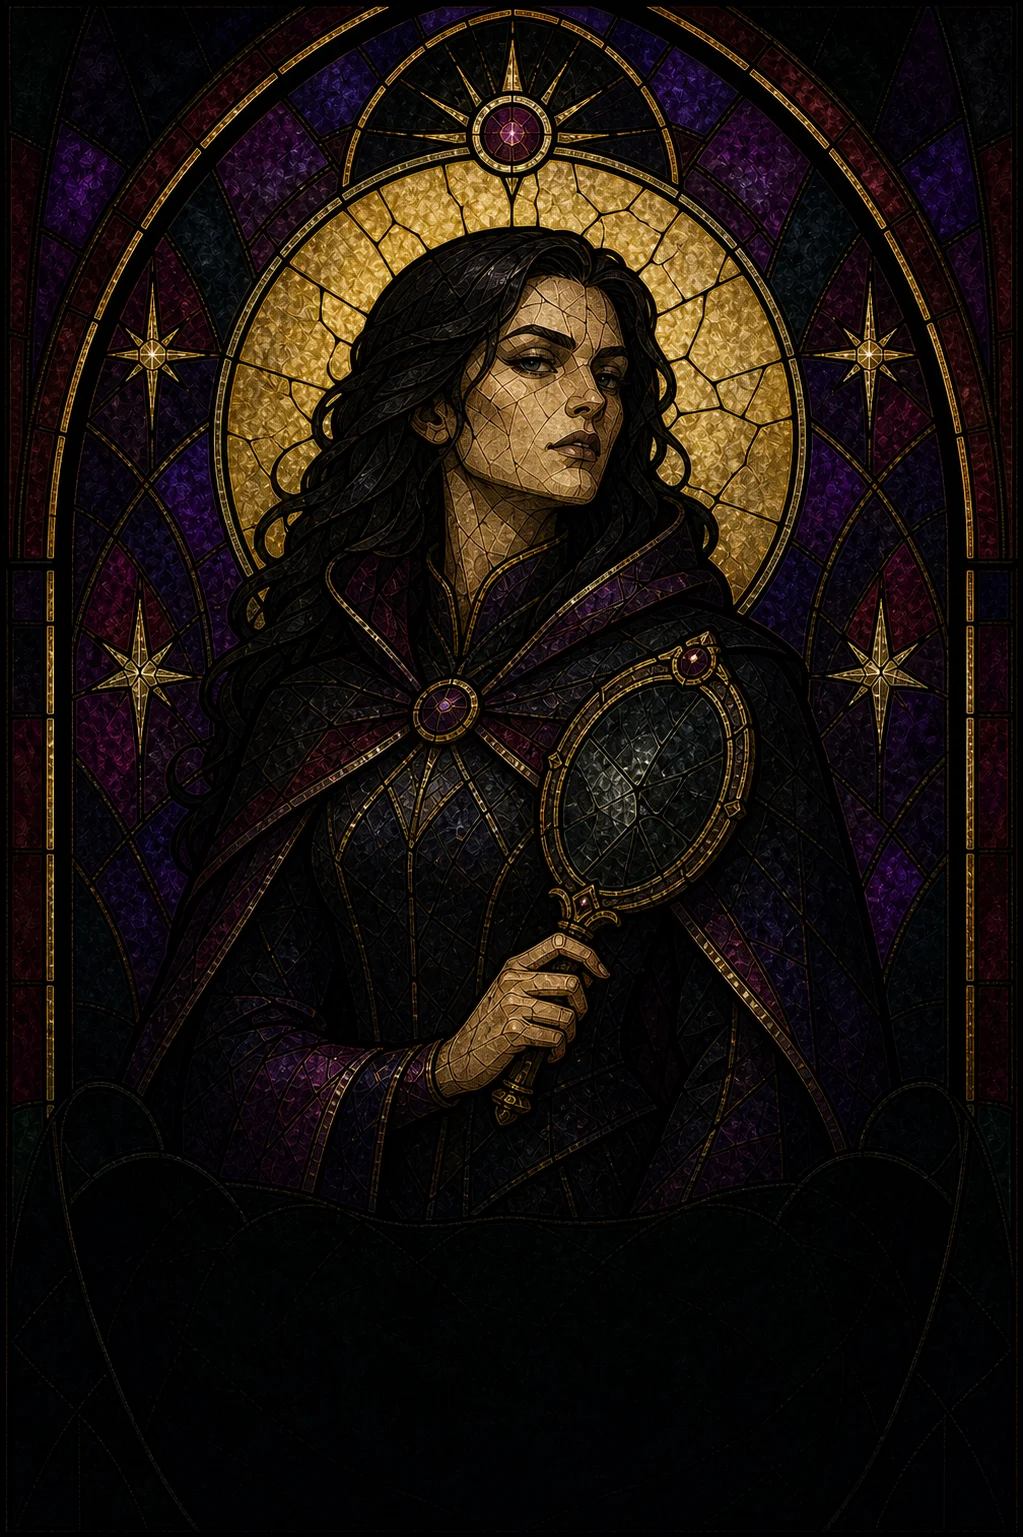
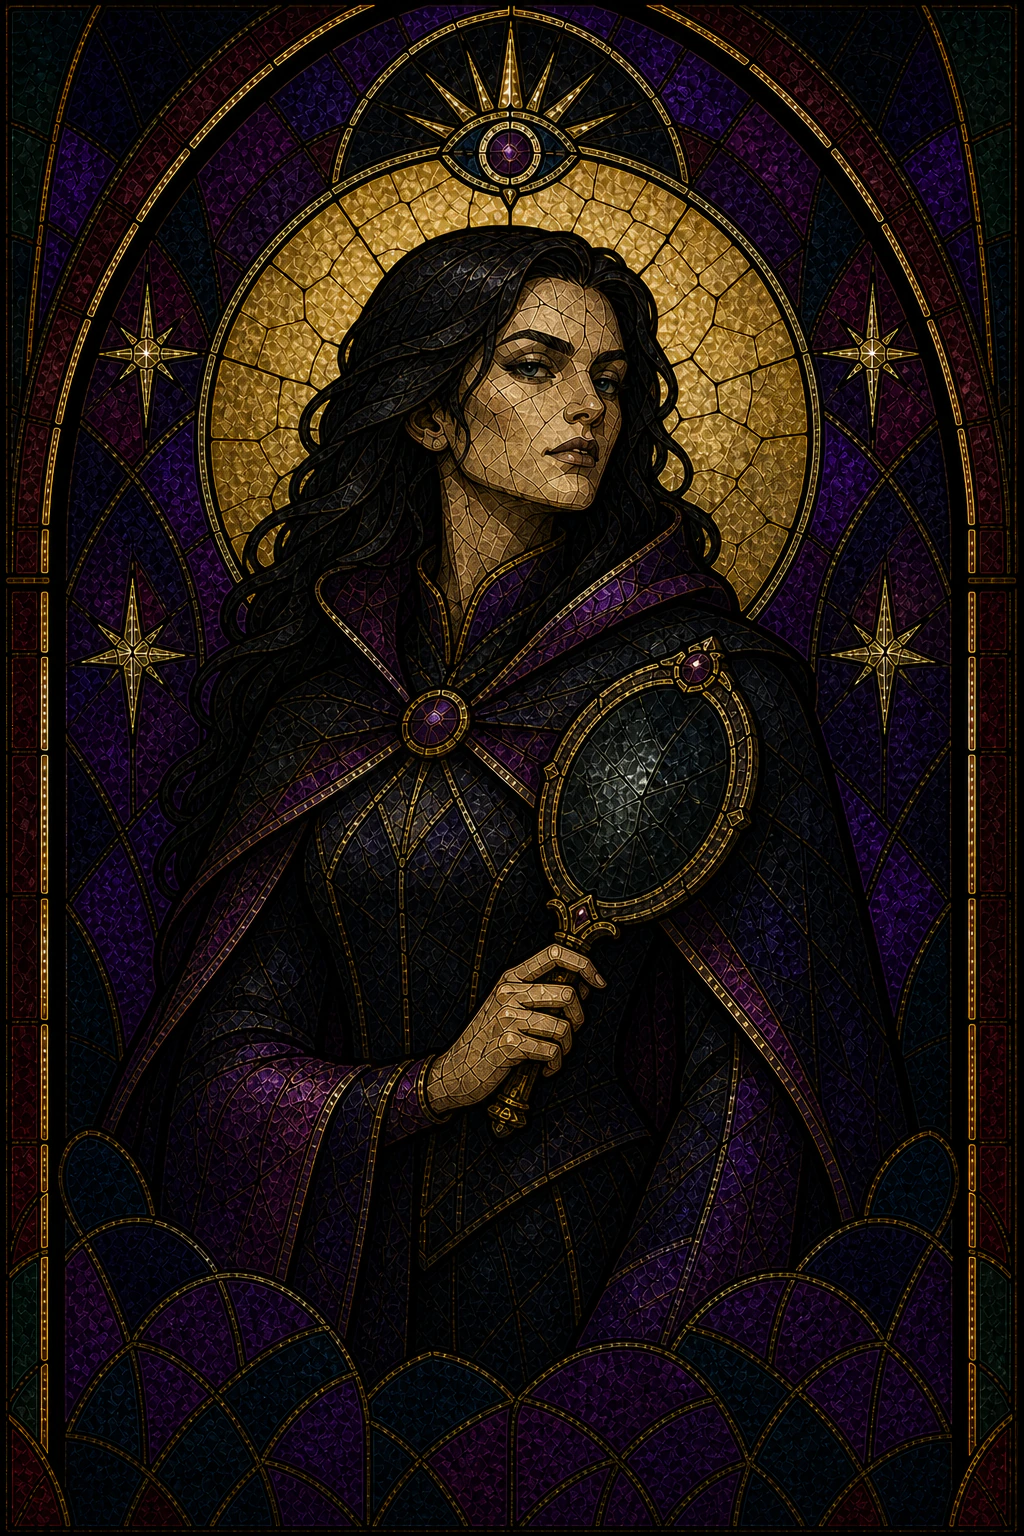
feat: launch dissenting courtier skins

Changed region(s): [[0.0, 0.0, 1.0, 1.0], [0.8788, 0.7188, 0.9091, 0.75], [0.7576, 0.9688, 0.7879, 1.0]]

diff --git a/frontend/src/gameRoleSkins.ts b/frontend/src/gameRoleSkins.ts
@@ -1,5 +1,6 @@
 import classicPreview from './assets/avalon/role-skins/classic-tabletop/preview.webp'
 import classicAssassin from './assets/avalon/role-skins/classic-tabletop/roles/assassin.webp'
+import classicDissentingCourtier from './assets/avalon/role-skins/classic-tabletop/roles/dissenting-courtier.webp'
 import classicLoyalServant from './assets/avalon/role-skins/classic-tabletop/roles/loyal-servant.webp'
 import classicMerlin from './assets/avalon/role-skins/classic-tabletop/roles/merlin.webp'
 import classicMinion from './assets/avalon/role-skins/classic-tabletop/roles/minion.webp'
@@ -10,6 +11,7 @@ import classicPercival from './assets/avalon/role-skins/classic-tabletop/roles/p
 import classicShadowMerlin from './assets/avalon/role-skins/classic-tabletop/roles/shadow-merlin.webp'
 import darkPreview from './assets/avalon/role-skins/dark-chronicle/preview.webp'
 import darkAssassin from './assets/avalon/role-skins/dark-chronicle/roles/assassin.webp'
+import darkDissentingCourtier from './assets/avalon/role-skins/dark-chronicle/roles/dissenting-courtier.webp'
 import darkLoyalServant from './assets/avalon/role-skins/dark-chronicle/roles/loyal-servant.webp'
 import darkMerlin from './assets/avalon/role-skins/dark-chronicle/roles/merlin.webp'
 import darkMinion from './assets/avalon/role-skins/dark-chronicle/roles/minion.webp'
@@ -20,6 +22,7 @@ import darkPercival from './assets/avalon/role-skins/dark-chronicle/roles/perciv
 import darkShadowMerlin from './assets/avalon/role-skins/dark-chronicle/roles/shadow-merlin.webp'
 import grailPreview from './assets/avalon/role-skins/grail-myth/preview.webp'
 import grailAssassin from './assets/avalon/role-skins/grail-myth/roles/assassin.webp'
+import grailDissentingCourtier from './assets/avalon/role-skins/grail-myth/roles/dissenting-courtier.webp'
 import grailLoyalServant from './assets/avalon/role-skins/grail-myth/roles/loyal-servant.webp'
 import grailMerlin from './assets/avalon/role-skins/grail-myth/roles/merlin.webp'
 import grailMinion from './assets/avalon/role-skins/grail-myth/roles/minion.webp'
@@ -30,6 +33,7 @@ import grailPercival from './assets/avalon/role-skins/grail-myth/roles/percival.
 import grailShadowMerlin from './assets/avalon/role-skins/grail-myth/roles/shadow-merlin.webp'
 import codexPreview from './assets/avalon/role-skins/royal-codex/preview.webp'
 import codexAssassin from './assets/avalon/role-skins/royal-codex/roles/assassin.webp'
+import codexDissentingCourtier from './assets/avalon/role-skins/royal-codex/roles/dissenting-courtier.webp'
 import codexLoyalServant from './assets/avalon/role-skins/royal-codex/roles/loyal-servant.webp'
 import codexMerlin from './assets/avalon/role-skins/royal-codex/roles/merlin.webp'
 import codexMinion from './assets/avalon/role-skins/royal-codex/roles/minion.webp'
@@ -40,6 +44,7 @@ import codexPercival from './assets/avalon/role-skins/royal-codex/roles/percival
 import codexShadowMerlin from './assets/avalon/role-skins/royal-codex/roles/shadow-merlin.webp'
 import stainedPreview from './assets/avalon/role-skins/stained-glass/preview.webp'
 import stainedAssassin from './assets/avalon/role-skins/stained-glass/roles/assassin.webp'
+import stainedDissentingCourtier from './assets/avalon/role-skins/stained-glass/roles/dissenting-courtier.webp'
 import stainedLoyalServant from './assets/avalon/role-skins/stained-glass/roles/loyal-servant.webp'
 import stainedMerlin from './assets/avalon/role-skins/stained-glass/roles/merlin.webp'
 import stainedMinion from './assets/avalon/role-skins/stained-glass/roles/minion.webp'
@@ -70,7 +75,7 @@ export type AvalonRoleCode =
   | 'oberon'
   | 'minion'
 
-export type RoleSkinRoleCode = Exclude<AvalonRoleCode, 'dissenting_courtier'>
+export type RoleSkinRoleCode = AvalonRoleCode
 
 export type AvalonRoleAlignment = 'good' | 'evil'
 
@@ -144,7 +149,7 @@ const ROLE_ART: Record<RoleSkinId, Partial<Record<AvalonRoleCode, string>>> = {
     merlin: classicMerlin,
     percival: classicPercival,
     loyal_servant: classicLoyalServant,
-    dissenting_courtier: classicLoyalServant,
+    dissenting_courtier: classicDissentingCourtier,
     shadow_merlin: classicShadowMerlin,
     assassin: classicAssassin,
     morgana: classicMorgana,
@@ -156,7 +161,7 @@ const ROLE_ART: Record<RoleSkinId, Partial<Record<AvalonRoleCode, string>>> = {
     merlin: darkMerlin,
     percival: darkPercival,
     loyal_servant: darkLoyalServant,
-    dissenting_courtier: darkLoyalServant,
+    dissenting_courtier: darkDissentingCourtier,
     shadow_merlin: darkShadowMerlin,
     assassin: darkAssassin,
     morgana: darkMorgana,
@@ -168,7 +173,7 @@ const ROLE_ART: Record<RoleSkinId, Partial<Record<AvalonRoleCode, string>>> = {
     merlin: stainedMerlin,
     percival: stainedPercival,
     loyal_servant: stainedLoyalServant,
-    dissenting_courtier: stainedLoyalServant,
+    dissenting_courtier: stainedDissentingCourtier,
     shadow_merlin: stainedShadowMerlin,
     assassin: stainedAssassin,
     morgana: stainedMorgana,
@@ -180,7 +185,7 @@ const ROLE_ART: Record<RoleSkinId, Partial<Record<AvalonRoleCode, string>>> = {
     merlin: codexMerlin,
     percival: codexPercival,
     loyal_servant: codexLoyalServant,
-    dissenting_courtier: codexLoyalServant,
+    dissenting_courtier: codexDissentingCourtier,
     shadow_merlin: codexShadowMerlin,
     assassin: codexAssassin,
     morgana: codexMorgana,
@@ -192,7 +197,7 @@ const ROLE_ART: Record<RoleSkinId, Partial<Record<AvalonRoleCode, string>>> = {
     merlin: grailMerlin,
     percival: grailPercival,
     loyal_servant: grailLoyalServant,
-    dissenting_courtier: grailLoyalServant,
+    dissenting_courtier: grailDissentingCourtier,
     shadow_merlin: grailShadowMerlin,
     assassin: grailAssassin,
     morgana: grailMorgana,
@@ -268,6 +273,7 @@ export const ROLE_SKIN_ROLES: RoleSkinRoleDefinition[] = [
   { code: 'shadow_merlin', name: '暗影梅林', alignment: 'good' },
   { code: 'percival', name: '派西维尔', alignment: 'good' },
   { code: 'loyal_servant', name: '亚瑟的忠臣', alignment: 'good' },
+  { code: 'dissenting_courtier', name: '心怀异念之臣', alignment: 'good' },
   { code: 'assassin', name: '刺客', alignment: 'evil' },
   { code: 'morgana', name: '莫甘娜', alignment: 'evil' },
   { code: 'mordred', name: '莫德雷德', alignment: 'evil' },
@@ -300,6 +306,8 @@ function parsedRoleSkinLoadout(value: string | null): RoleSkinLoadout | null {
     for (const role of ROLE_SKIN_ROLES) {
       const skin = role.code === 'shadow_merlin'
         ? parsed.shadow_merlin ?? parsed.merlin
+        : role.code === 'dissenting_courtier'
+          ? parsed.dissenting_courtier ?? parsed.loyal_servant
         : parsed[role.code]
       if (!skin || !isRoleSkinId(skin)) return null
       loadout[role.code] = skin
@@ -319,7 +327,6 @@ export function defaultRoleSkinLoadout(
 }
 
 export function roleSkinRoleCode(roleCode: string): RoleSkinRoleCode | null {
-  if (roleCode === 'dissenting_courtier') return 'loyal_servant'
   return ROLE_SKIN_ROLES.some((role) => role.code === roleCode)
     ? roleCode as RoleSkinRoleCode
     : null

diff --git a/frontend/src/gameRoleSkins.test.ts b/frontend/src/gameRoleSkins.test.ts
@@ -89,26 +89,27 @@ describe('Avalon role skin artwork framing', () => {
     expect(roleArtworkFraming('minion', 'grail-myth').scale).toBe(1.1)
   })
 
-  it('uses the same framing data in the nine-role preview model', () => {
+  it('uses the same framing data in the ten-role preview model', () => {
     const roles = ROLE_SKIN_ROLES.map((role) => ({
       ...role,
       framing: roleArtworkFraming(role.code, 'grail-myth'),
     }))
-    expect(roles).toHaveLength(9)
+    expect(roles).toHaveLength(10)
     expect(roles.find((role) => role.code === 'merlin')?.framing.scale).toBe(1)
     expect(roles.find((role) => role.code === 'morgana')?.framing.scale).toBe(1.1)
   })
 
-  it('temporarily reuses the loyal servant artwork for the dissenting courtier', () => {
+  it('uses dedicated dissenting courtier artwork in every skin family', () => {
     for (const skin of ROLE_SKINS) {
-      expect(roleArtwork('dissenting_courtier', skin.id)).toBe(
+      expect(roleArtwork('dissenting_courtier', skin.id)).not.toBe(
         roleArtwork('loyal_servant', skin.id),
       )
+      expect(isRoleSkinAvailable('dissenting_courtier', skin.id)).toBe(true)
     }
   })
 
-  it('maps the dissenting courtier into the loyal-servant skin family', () => {
-    expect(roleSkinRoleCode('dissenting_courtier')).toBe('loyal_servant')
+  it('keeps the dissenting courtier independently selectable', () => {
+    expect(roleSkinRoleCode('dissenting_courtier')).toBe('dissenting_courtier')
     expect(roleSkinRoleCode('loyal_servant')).toBe('loyal_servant')
     expect(roleSkinRoleCode('unknown')).toBeNull()
   })
@@ -137,10 +138,11 @@ describe('Avalon role skin artwork framing', () => {
     })
   })
 
-  it('stores an independent nine-role loadout per account', () => {
+  it('stores an independent ten-role loadout per account', () => {
     const loadout = defaultRoleSkinLoadout()
     loadout.merlin = 'dark-chronicle'
     loadout.shadow_merlin = 'stained-glass'
+    loadout.dissenting_courtier = 'royal-codex'
     loadout.assassin = 'grail-myth'
 
     rememberRoleSkinLoadout('account-a', loadout)
@@ -159,14 +161,19 @@ describe('Avalon role skin artwork framing', () => {
     )
   })
 
-  it('adds shadow Merlin to an existing eight-role loadout', () => {
+  it('adds shadow Merlin and the dissenting courtier to a legacy loadout', () => {
     const legacyLoadout = defaultRoleSkinLoadout('classic-tabletop')
     legacyLoadout.merlin = 'royal-codex'
+    legacyLoadout.loyal_servant = 'stained-glass'
     delete (legacyLoadout as Partial<typeof legacyLoadout>).shadow_merlin
+    delete (legacyLoadout as Partial<typeof legacyLoadout>).dissenting_courtier
     rememberRoleSkinLoadout('legacy-account', legacyLoadout)
 
     expect(storedRoleSkinLoadout('legacy-account').shadow_merlin).toBe(
       'royal-codex',
+    )
+    expect(storedRoleSkinLoadout('legacy-account').dissenting_courtier).toBe(
+      'stained-glass',
     )
   })
 

diff --git a/frontend/src/components/RoleSkinLoadoutPicker.test.ts b/frontend/src/components/RoleSkinLoadoutPicker.test.ts
@@ -9,6 +9,7 @@ function roles(): RoleSkinLoadoutRoleOption[] {
     '暗影梅林',
     '派西维尔',
     '亚瑟的忠臣',
+    '心怀异念之臣',
     '刺客',
     '莫甘娜',
     '莫德雷德',
@@ -20,6 +21,7 @@ function roles(): RoleSkinLoadoutRoleOption[] {
       'shadow_merlin',
       'percival',
       'loyal_servant',
+      'dissenting_courtier',
       'assassin',
       'morgana',
       'mordred',
@@ -27,7 +29,7 @@ function roles(): RoleSkinLoadoutRoleOption[] {
       'minion',
     ][index]!,
     name,
-    group: index < 4 ? '亚瑟阵营' : '莫德雷德阵营',
+    group: index < 5 ? '亚瑟阵营' : '莫德雷德阵营',
     wins: index < 2 ? 2 : 0,
     currentSkinName: '经典桌游',
     currentArtwork: '/classic.webp',
@@ -76,12 +78,12 @@ describe('RoleSkinLoadoutPicker', () => {
     document.body.innerHTML = ''
   })
 
-  it('shows all nine independently configurable roles', () => {
+  it('shows all ten independently configurable roles', () => {
     const wrapper = mount(RoleSkinLoadoutPicker, { props: { roles: roles() } })
 
-    expect(wrapper.findAll('[data-role-skin-role]')).toHaveLength(9)
+    expect(wrapper.findAll('[data-role-skin-role]')).toHaveLength(10)
     expect(wrapper.text()).toContain('暗影梅林与梅林共享解锁进度')
-    expect(wrapper.text()).toContain('心怀异念之臣与忠臣共享')
+    expect(wrapper.text()).toContain('心怀异念之臣与忠臣共享解锁进度')
     expect(wrapper.get('[data-role-skin-role="merlin"]').text()).toContain(
       '升级 2/2',
     )

diff --git a/frontend/src/views/ArcadeRoom.test.ts b/frontend/src/views/ArcadeRoom.test.ts
@@ -406,9 +406,12 @@ describe('ArcadeRoom', () => {
     expect(wrapper.find('.game-page').exists()).toBe(false)
     expect(wrapper.get('.arcade-player-strip').text()).toContain('AI玩家 1')
     expect(wrapper.get('.role-skin-loadout').text()).toContain('开局后锁定')
-    expect(wrapper.findAll('[data-role-skin-role]')).toHaveLength(9)
+    expect(wrapper.findAll('[data-role-skin-role]')).toHaveLength(10)
     expect(wrapper.get('[data-role-skin-role="shadow_merlin"]').text()).toContain(
       '暗影梅林',
+    )
+    expect(wrapper.get('[data-role-skin-role="dissenting_courtier"]').text()).toContain(
+      '心怀异念之臣',
     )
     expect(wrapper.findAll('.exit-room-trigger')).toHaveLength(1)
     expect(
@@ -446,12 +449,13 @@ describe('ArcadeRoom', () => {
     wrapper.unmount()
   })
 
-  it('uses the loyal-servant selection for the dissenting courtier in play', async () => {
+  it('uses the independent dissenting-courtier selection in play', async () => {
     rememberAccessToken('access-token')
     rememberAccountToken('account-token')
     vi.stubGlobal('fetch', vi.fn().mockResolvedValue(roleSkinProgressResponse()))
     const loadout = defaultRoleSkinLoadout()
-    loadout.loyal_servant = 'royal-codex'
+    loadout.loyal_servant = 'classic-tabletop'
+    loadout.dissenting_courtier = 'royal-codex'
     rememberRoleSkinLoadout('account-1', loadout)
     const room = avalonSnapshot('role_reveal')
     const role = room.game.self.role

diff --git a/frontend/src/components/RoleSkinLoadoutPicker.vue b/frontend/src/components/RoleSkinLoadoutPicker.vue
@@ -47,9 +47,9 @@ onBeforeUnmount(() => window.removeEventListener('keydown', handleEscape))
     <header class="role-skin-loadout-heading">
       <span><Images :size="20" /></span>
       <div>
-        <strong id="role-skin-loadout-title">九角色身份画风</strong>
+        <strong id="role-skin-loadout-title">十角色身份画风</strong>
         <small v-if="eventAllUnlocked">本周限时开放 · 所有角色的五套皮肤均可自由选择 · 开局后锁定</small>
-        <small v-else>每个角色单独选择 · 暗影梅林与梅林共享解锁进度 · 心怀异念之臣与忠臣共享 · 开局后锁定</small>
+        <small v-else>每个角色单独选择 · 暗影梅林与梅林共享解锁进度 · 心怀异念之臣与忠臣共享解锁进度 · 开局后锁定</small>
       </div>
     </header>
 
@@ -58,7 +58,7 @@ onBeforeUnmount(() => window.removeEventListener('keydown', handleEscape))
     </button>
     <p v-else-if="loading" class="role-skin-loading" role="status">正在读取角色胜场与皮肤权限…</p>
 
-    <div class="role-skin-role-grid" aria-label="为九个角色选择身份画风">
+    <div class="role-skin-role-grid" aria-label="为十个角色选择身份画风">
       <button
         v-for="role in roles"
         :key="role.code"

diff --git a/frontend/src/avalonRoleSkinProgress.ts b/frontend/src/avalonRoleSkinProgress.ts
@@ -17,7 +17,7 @@ export interface AvalonRoleSkinRoleProgress {
 
 export type AvalonRoleSkinProgressRoleCode = Exclude<
   RoleSkinRoleCode,
-  'shadow_merlin'
+  'shadow_merlin' | 'dissenting_courtier'
 >
 
 export interface AvalonRoleSkinProgress {
@@ -42,7 +42,7 @@ export function isAvalonRoleSkinFreeWeek(now = new Date()): boolean {
 const ROLE_SKIN_PROGRESS_ROLE_CODES = ROLE_SKIN_ROLES
   .map((role) => role.code)
   .filter((role): role is AvalonRoleSkinProgressRoleCode => (
-    role !== 'shadow_merlin'
+    role !== 'shadow_merlin' && role !== 'dissenting_courtier'
   ))
 
 export function emptyAvalonRoleSkinProgress(
@@ -76,7 +76,11 @@ export function isRoleSkinUnlocked(
   if (progress.legacyAllUnlocked) return true
   const family = roleSkinRoleCode(roleCode)
   if (!family) return false
-  const progressFamily = family === 'shadow_merlin' ? 'merlin' : family
+  const progressFamily = family === 'shadow_merlin'
+    ? 'merlin'
+    : family === 'dissenting_courtier'
+      ? 'loyal_servant'
+      : family
   const role = progress.roles[progressFamily]
   return skin.tier === '终极'
     ? role.ultimateUnlocked

diff --git a/frontend/src/views/ArcadeRoom.vue b/frontend/src/views/ArcadeRoom.vue
@@ -168,7 +168,11 @@ const activeRoleSkin = computed<RoleSkinId>(() => {
 })
 const roleSkinLoadoutOptions = computed<RoleSkinLoadoutRoleOption[]>(() => (
   ROLE_SKIN_ROLES.map((role) => {
-    const progressCode = role.code === 'shadow_merlin' ? 'merlin' : role.code
+    const progressCode = role.code === 'shadow_merlin'
+      ? 'merlin'
+      : role.code === 'dissenting_courtier'
+        ? 'loyal_servant'
+        : role.code
     const progress = roleSkinProgress.value.roles[progressCode]
     const selectedSkinId = selectedRoleSkinLoadout.value[role.code]
     const selectedSkin = ROLE_SKINS.find((skin) => skin.id === selectedSkinId)

diff --git a/frontend/src/assets/avalon/role-skins/README.md b/frontend/src/assets/avalon/role-skins/README.md
@@ -7,18 +7,24 @@ Each skin directory follows the same contract:
 ├── preview.webp              # 1024 × 768, 4 × 2 role overview
 └── roles/                    # 1024 × 1536 portraits
     ├── assassin.webp
+    ├── dissenting-courtier.webp
     ├── loyal-servant.webp
     ├── merlin.webp
     ├── minion.webp
     ├── mordred.webp
     ├── morgana.webp
     ├── oberon.webp
-    └── percival.webp
+    ├── percival.webp
+    └── shadow-merlin.webp
 ```
 
 Preview order is Merlin, Percival, Loyal Servant, Assassin, Morgana,
 Mordred, Oberon, and Minion. Runtime IDs, names, tiers, previews, and role
 artwork are registered in `frontend/src/gameRoleSkins.ts`.
+
+The in-game loadout contains all ten roles. Shadow Merlin has dedicated art
+while sharing Merlin's unlock progress. The Dissenting Courtier has dedicated
+art and an independent selected style while sharing Loyal Servant unlocks.
 
 ## Generated skin prompts
 
